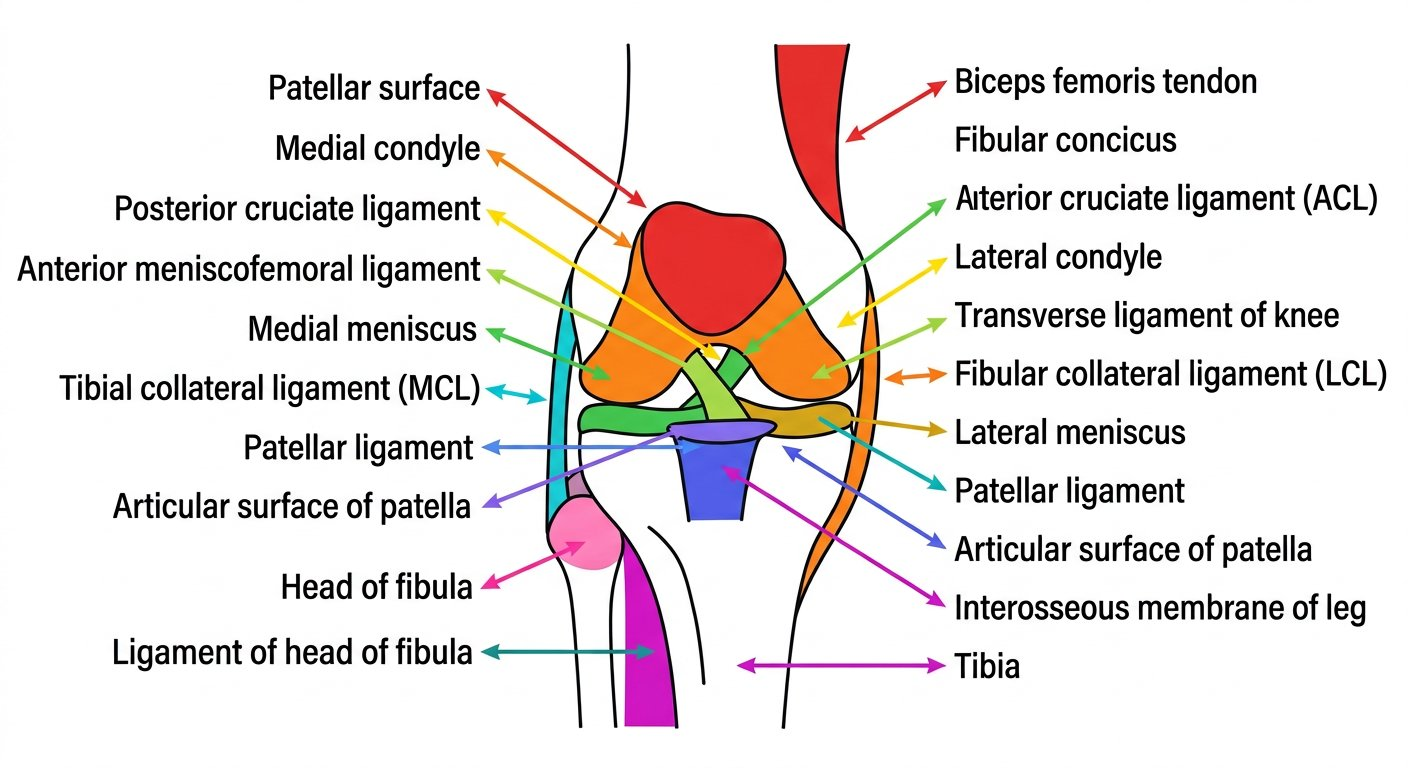
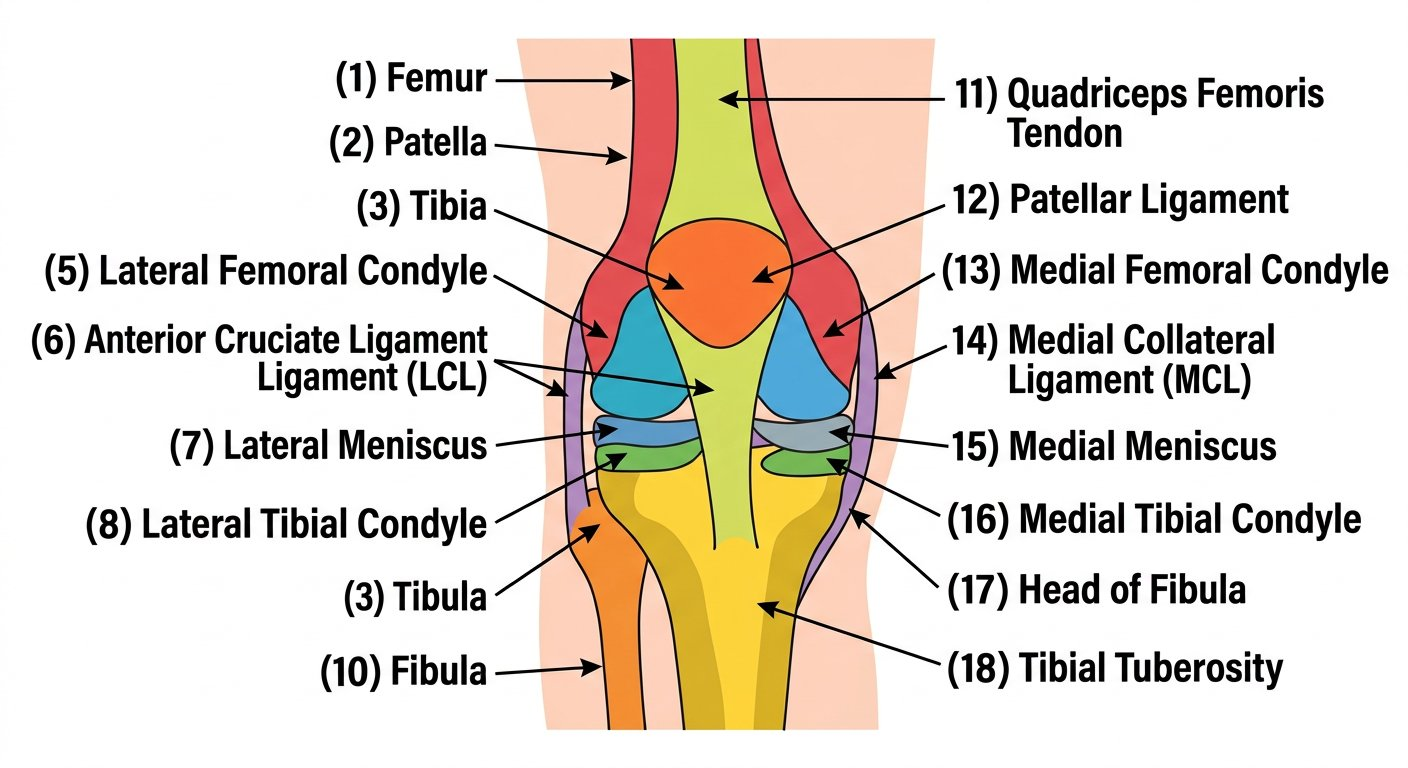
Rangli diagrammalar: raqamli uslubga o'tish — qismlarga raqam+strelka, pastda raqamli ro'yxat (l4,l5,l15,l22,l23,l27,l31 raqamli, yozuvsiz)

diff --git a/corpus/src/i18n.ts b/corpus/src/i18n.ts
@@ -137,8 +137,8 @@ export const STR: Record<Lang, Strings> = {
     zoomReset: "Asliga qaytarish",
     imageParts: "Rasm qismlari (raqamlar)",
     tapToFind: "qismni bossangiz, rasmda topishga yordam beradi",
-    colorLegend: "Rangli qismlar",
-    colorLegendHint: "rasm ustiga bosing — nomi chiqadi va o'sha qism rangli bo'ladi",
+    colorLegend: "Raqamlangan qismlar",
+    colorLegendHint: "rasmdagi raqam — pastdagi ro'yxatda o'sha nom",
     findPart: "№{n} — {name} ni rasmda toping",
     legendList: "Ro'yxat",
 
@@ -406,8 +406,8 @@ export const STR: Record<Lang, Strings> = {
     zoomReset: "Reset",
     imageParts: "Labeled parts",
     tapToFind: "tap a part to locate it on the image",
-    colorLegend: "Color-coded parts",
-    colorLegendHint: "tap the image — the name appears and that part is highlighted",
+    colorLegend: "Numbered parts",
+    colorLegendHint: "the number in the image matches the list below",
     findPart: "Find №{n} — {name} on the image",
     legendList: "List",
 

diff --git a/corpus/src/data/content.ts b/corpus/src/data/content.ts
@@ -228,7 +228,7 @@ export const CONTENT_SYSTEMS: ContentSystem[] = BASE_SYSTEMS.map((sys) => {
 
         const colorSlide = {
           title: "Rangli diagramma",
-          text: "Rasm ustiga bosing — nomi chiqadi va o'sha qism rangli ko'rinadi.",
+          text: "Qismlar raqamlangan — pastdagi ro'yxatdan nomini toping yoki rasmga bosing.",
           img: colorImg,
           legend,
           highlights: COLOR_HIGHLIGHTS[lesson.id],
